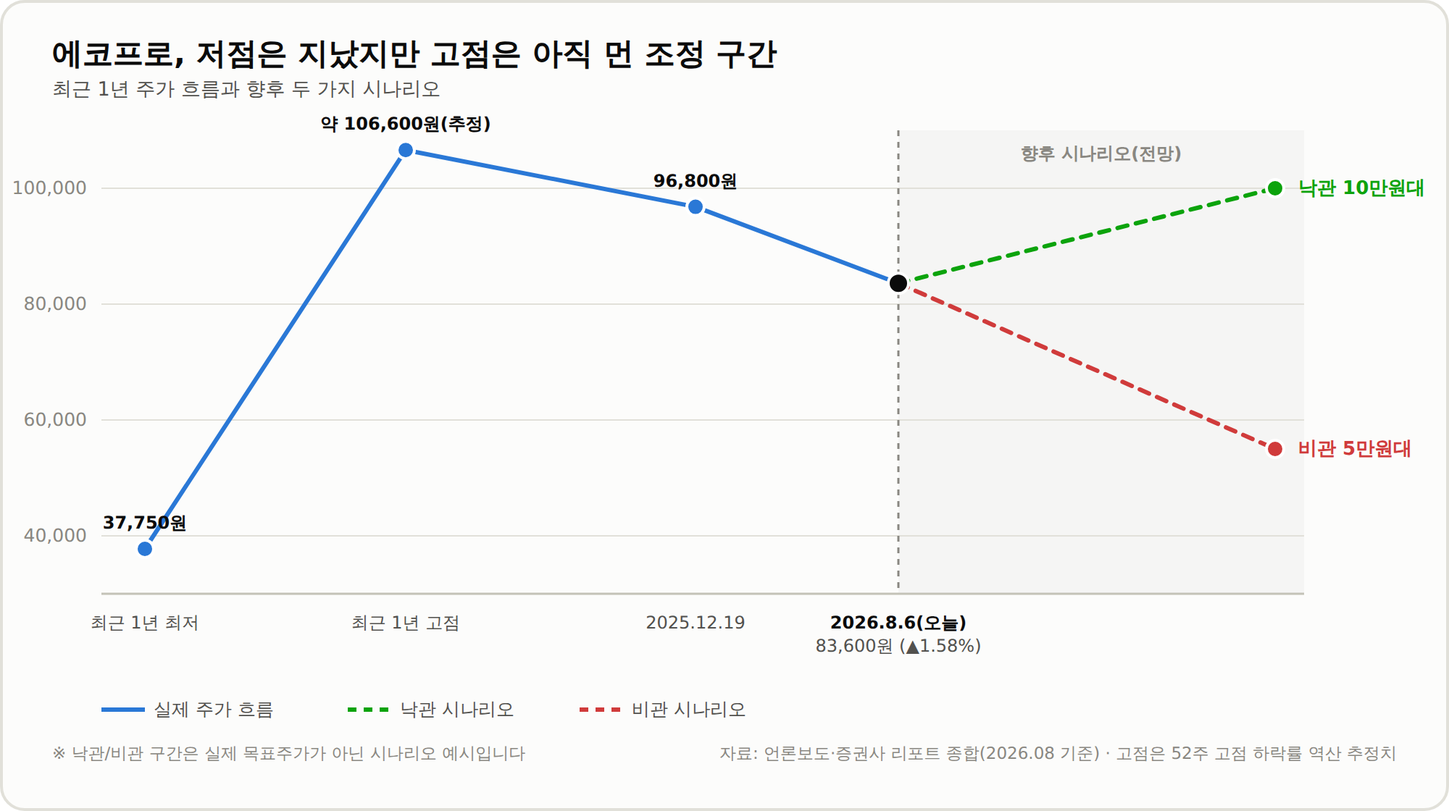
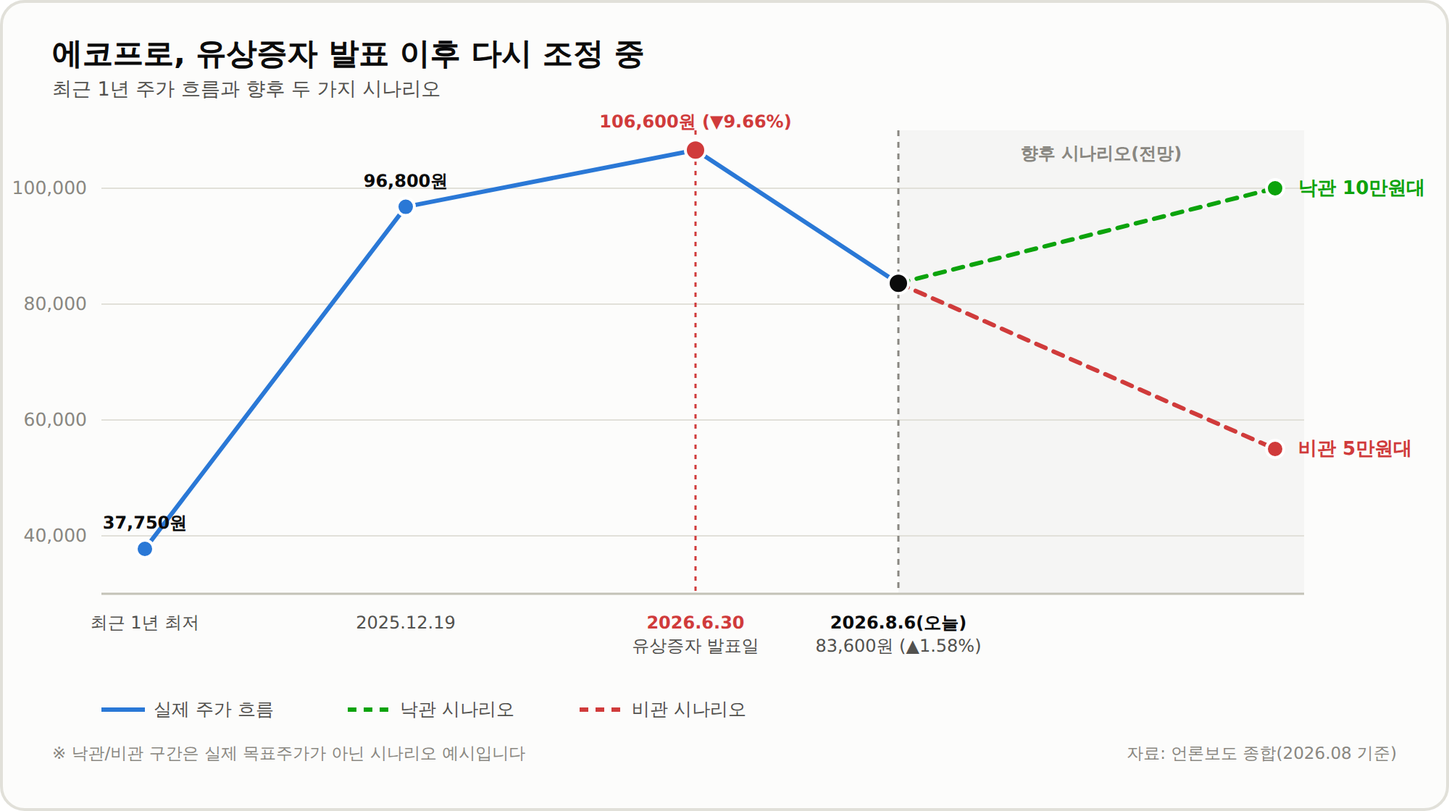
에코프로 글에 유상증자(1.2조원) 이슈 섹션 추가 (#22)
* feat: 에코프로 글에 유상증자 이슈 섹션 추가

- 2026.6.30 에코프로비엠(자회사) 1.2조원 유상증자 결정 내용을
  새 섹션(3번)으로 추가: 발행 규모/가격/일정/자금 사용계획(인니
  BNSI 니켈제련소 지분 확보 등) 표로 정리
- 발표 당일 주가 반응(에코프로 -9.66%, 에코프로비엠 -7.77%) 및
  향후 일정(10/12 발행가 확정, 10/15~21 청약, 11/5 신주 상장) 서술
- 주가 흐름 차트를 실제 사료로 재구성: 기존에 "52주 고점 역산
  추정치"로 표기했던 106,600원 지점이 실제로는 유상증자 발표일
  (2026.6.30) 종가였음을 확인해 정확한 날짜·사유로 라벨 교체,
  차트 타이틀도 "유상증자 발표 이후 다시 조정 중"으로 갱신
- 시나리오/투자포인트/리스크/밸류에이션/결론에 유상증자發 희석
  리스크, 해외 프로젝트 실행 리스크, 원료 경쟁력 강화 포인트 반영
- marked 렌더링 전수 검증(별표 노출/취소선 0건) 및 괄호 짝 검증 통과

Claude-Session: https://claude.ai/code/session_01WzxL9fDSxe2pwdrpmEY5Nh

* feat: 에코프로 유상증자 - 금감원 정정요구 및 지분구조 분석 추가

- 3절 유상증자 이벤트 테이블에 증권신고서 제출(7/14), 금감원 정정요구
  (7/15, 신고서 효력정지), 1차 정정공시(7/24), 정정신고서 효력발생(8/8)
  일정 추가
- "금감원 정정요구, 무슨 일이 있었나" 서브섹션 신설: 정정요구 사유, 절차
  효과(3개월 내 미제출시 철회 간주), 시장의 역설적 반응(+7.64%) 설명
- "유상증자 주체는 왜 지주사가 아니라 자회사인가" 서브섹션 신설: 발행
  주체(에코프로비엠)와 주가 낙폭(-9.66% > -7.77%)의 괴리를 지분구조
  (에코프로의 에코프로비엠 지분 약 41%)로 설명, 주주배정 실권주 공모
  방식에 따른 지주사의 청약 참여 여부 변수 언급
- posts/stock/ecopro-analysis.md와 src/App.tsx post-11 동기화
- marked.parse() 검증 스크립트로 전체 posts/*.md + App.tsx 항목 재검증
  (** 누출, 괄호 불일치 없음 확인)

Claude-Session: https://claude.ai/code/session_01WzxL9fDSxe2pwdrpmEY5Nh

---------

diff --git a/src/App.tsx b/src/App.tsx
@@ -12,16 +12,16 @@ const samplePosts: Post[] = [
     title: '에코프로(086520) 주가 분석 - 2차전지 밸류체인의 심장, 캐즘 터널의 끝은 보이는가',
     category: '주식',
     date: '2026-08-08',
-    tags: ['주식', '에코프로', '086520', '2차전지', '양극재', '리튬', 'ESS', '종목분석', '코스닥'],
+    tags: ['주식', '에코프로', '086520', '2차전지', '양극재', '리튬', 'ESS', '유상증자', '종목분석', '코스닥'],
     naverCategory: '국내주식',
     filePath: 'posts/stock/ecopro-analysis.md',
     content: `# 에코프로(086520) 주가 분석 - 2차전지 밸류체인의 심장, 캐즘 터널의 끝은 보이는가
 
 ![에코프로(086520) 주식분석 커버 이미지 - 현재가 83,600원, 시가총액 11.35조원(코스닥 2위), 2026년 2분기 영업이익 329억원(+102.7%)](/images/ecopro-stock/ecopro-cover.png)
 
-한때 "코스닥 황제주"로 불리며 국내 개인투자자들의 2차전지 열풍을 상징했던 종목, **에코프로**(086520)를 분석해 보려고 합니다. 2023년 화려한 랠리 이후 오랜 조정을 거쳐온 이 종목이 지금은 어떤 국면에 있는지, 2차전지 업종 전반의 흐름과 함께 그룹 밸류체인 구조·최근 실적을 정리해 봤습니다.
+한때 "코스닥 황제주"로 불리며 국내 개인투자자들의 2차전지 열풍을 상징했던 종목, **에코프로**(086520)를 분석해 보려고 합니다. 2023년 화려한 랠리 이후 오랜 조정을 거쳐온 이 종목이 지금은 어떤 국면에 있는지, 2차전지 업종 전반의 흐름과 최근 대규모 유상증자 이슈까지 함께 정리해 봤습니다.
 
-> ⚠ 이 글은 특정 종목의 매수·매도를 권유하는 글이 아니며, 투자 판단과 책임은 투자자 본인에게 있습니다. 수치는 공시 및 언론 보도를 바탕으로 정리했고, 일부 수치(52주 고점 등)는 발표된 등락률을 역산한 추정치입니다. 투자 전 최신 공시자료를 반드시 직접 확인해 주세요.
+> ⚠ 이 글은 특정 종목의 매수·매도를 권유하는 글이 아니며, 투자 판단과 책임은 투자자 본인에게 있습니다. 수치는 공시 및 언론 보도를 바탕으로 정리했습니다. 투자 전 최신 공시자료를 반드시 직접 확인해 주세요.
 
 ---
 
@@ -54,21 +54,64 @@ const samplePosts: Post[] = [
 
 ---
 
-## 3. 주가는 지금 어디에: 저점은 지났지만 고점은 아직 먼 조정 구간
+## 3. 최근 가장 큰 이슈: 1.2조원 유상증자와 인도네시아 니켈 베팅
 
-![에코프로 최근 1년 주가 흐름 차트 - 52주 최저 37,750원에서 반등해 고점을 찍었다가 2025년 12월 96,800원을 거쳐 2026년 8월 6일 83,600원으로 조정 중이며, 향후 낙관(10만원대)과 비관(5만원대) 두 시나리오를 보여줌](/images/ecopro-stock/ecopro-price-trend.png)
+2026년 6월 30일, 자회사 에코프로비엠 이사회가 약 1조 2,000억원 규모의 대형 유상증자를 결정하면서 그룹 전체 주가가 크게 흔들렸습니다.
 
-- **최근 1년 최저**: 37,750원
-- **최근 1년 고점**: 약 106,600원(52주 고점 대비 하락률 -21.53%를 역산한 추정치)
-- **2025년 12월 19일**: 96,800원
-- **2026년 8월 6일(오늘 기준 최신)**: 83,600원, 전일 대비 +1.58%
-- **시가총액**: 약 11.35조원으로 코스닥 시가총액 2위
+| 항목 | 내용 |
+| --- | --- |
+| 유상증자 대상 | 에코프로비엠(자회사, 247540) |
+| 유상증자 규모 | 약 1조 2,000억원 |
+| 발행 주식수 | 보통주 990만 990주 |
+| 예정 발행가 | 12만 1,200원(최종 발행가는 10월 12일 확정 예정) |
+| 방식 | 주주배정 후 실권주 일반공모 |
+| 자금 사용 계획 | 인도네시아 BNSI 니켈제련소 지분 확보 등 9,150억원 + 헝가리 잔여 투자 + 시설자금 1,500억원 + 운영자금 1,350억원 |
+| 청약 일정 | 기존 주주 청약 10월 15~16일, 일반공모 청약 10월 20~21일 |
+| 신주 상장(예정) | 2026년 11월 5일 |
+| 증권신고서 제출 | 2026년 7월 14일 |
+| 금감원 정정요구 | 2026년 7월 15일(신고서 효력 정지) |
+| 1차 정정 공시 | 2026년 7월 24일(발행 규모·주식수 동일 유지) |
+| 정정신고서 효력발생(예정) | 2026년 8월 8일(오늘) |
 
-정리하면, 52주 최저가 대비로는 크게 올라온 상태지만 최근 고점 대비로는 여전히 20% 넘게 조정을 받고 있는 흐름이에요. 참고로 이 종목은 2023년 7월 장중 100만원을 넘어서며 16년 만에 코스닥 "황제주"에 올랐던 이력이 있고, 2024년 4월 1대5 액면분할(주주 접근성 제고 목적)을 거쳤습니다. 지금의 가격대는 그 시절의 열기가 상당 부분 식은 이후, 새로운 바닥을 다지는 국면으로 볼 수 있습니다.
+핵심은 자금의 대부분(9,150억원)이 **인도네시아 술라웨시**에 짓는 BNSI 니켈제련소 지분 확보에 들어간다는 점입니다. 인도네시아 국영 광물기업 PT Vale Indonesia(PTVI) 등과 합작으로 짓는 이 제련소는 연산 9만 톤 규모의 니켈 생산능력(전기차 약 200만 대 분량 공급 가능)을 목표로 하고 있어요. 앞서 소개한 밸류체인의 "원료 확보" 단계를 그룹 차원에서 한 번 더 강화하려는 대형 베팅인 셈입니다.
+
+다만 시장의 반응은 즉각적으로 냉랭했습니다. 발표 당일 모회사인 **에코프로는 -9.66%(106,600원)**, 자회사 **에코프로비엠은 -7.77%**(142,500원)까지 급락했어요. 대규모 신주 발행에 따른 지분 희석 우려가 곧바로 주가에 반영된 모습입니다.
+
+### 금감원 정정요구, 무슨 일이 있었나
+
+7월 14일 에코프로비엠이 증권신고서를 제출했는데, 금융감독원이 바로 다음 날인 7월 15일 정정을 요구하면서 유상증자 절차에 제동이 걸렸습니다. 금감원은 "중요사항의 기재가 불충분하거나 내용이 불분명해 투자자의 합리적인 투자판단을 저해하거나 중대한 오해를 일으킬 수 있다"는 점을 정정요구 사유로 들었어요. 정정요구가 나오면 증권신고서의 효력이 즉시 정지되고, 3개월 안에 정정신고서를 다시 내지 않으면 유상증자 자체가 철회된 것으로 간주됩니다.
+
+흥미로운 건 시장 반응입니다. 통상 유상증자에 대한 규제당국의 제동은 악재로 받아들여지기 쉬운데, 오히려 이 소식에 에코프로비엠 주가는 전 거래일 대비 +7.64%(121,200원)까지 뛰었어요. 무리하게 밀어붙이던 대형 증자에 제동이 걸리면서, 투자 명분과 위험 요인을 다시 한번 꼼꼼히 짚어보는 계기가 될 거라는 기대감이 반영된 것으로 풀이됩니다.
+
+에코프로비엠은 7월 24일 발행 주식수(990만 990주)와 조달금액(1.2조원)은 그대로 유지한 채 1차 정정 공시를 제출했고, 이 정정신고서의 효력발생일이 바로 오늘(8월 8일)입니다. 금감원이 추가로 제동을 걸지 않는다면 유상증자는 원래 일정(10월 청약, 11월 신주 상장)대로 정상 진행될 수 있는 단계에 들어선 셈이에요. 이후로도 주가는 다시 조정을 받으며 오늘(8월 6일) 기준 83,600원까지 밀려 있는 상태입니다.
+
+### 유상증자 주체는 왜 지주사가 아니라 자회사인가
+
+이번 유상증자의 발행 주체는 지주회사인 에코프로가 아니라, 상장 자회사인 에코프로비엠입니다. 그런데 정작 주가는 자회사(-7.77%)보다 지주사(-9.66%)가 더 크게 빠졌어요. 이유는 지분 구조에 있습니다.
+
+에코프로는 에코프로비엠 지분 **약 41**%를 보유한 최대주주예요. 자회사가 신주를 대규모로 발행하면, 새로 발행되는 주식만큼 기존 주주의 지분율이 희석되는데, 이는 곧 최대주주인 지주사가 보유한 자회사 지분의 가치도 함께 희석된다는 뜻입니다. 즉, 유상증자를 실행하는 건 자회사지만, 그 부담은 지주사 주가가 고스란히, 심지어 더 크게 나눠 짊어진 셈이에요.
+
+이번 유상증자는 "주주배정 후 실권주 일반공모" 방식이라, 기존 주주는 지분율만큼 신주를 우선 배정받아 청약할 권리가 있습니다. 에코프로가 10월 청약에서 자기 지분율만큼 실제로 참여하느냐에 따라 앞으로 에코프로비엠에 대한 지분율을 그대로 지킬지, 아니면 더 희석될지가 갈릴 텐데, 아직 이 부분은 확인되지 않은 변수로 남아 있습니다. 밸류에이션 체크에서 짚은 "지주사 디스카운트"가 이번 이슈에서도 고스란히 드러나는 대목입니다.
+
+아직 최종 발행가 확정(10월 12일)과 청약(10월 15~21일), 신주 상장(11월 5일)이 남아 있는 진행 중인 이벤트라, 앞으로 이 일정들이 다가올 때마다 다시 한번 주가 변동성을 키울 수 있는 변수로 남아 있습니다.
 
 ---
 
-## 4. 최근 실적: 배터리는 부진한데 지주사 이익은 늘어난 역설
+## 4. 주가는 지금 어디에: 유상증자 발표 이후 다시 조정 중
+
+![에코프로 최근 1년 주가 흐름 차트 - 52주 최저 37,750원에서 반등해 2025년 12월 96,800원, 2026년 6월 30일 유상증자 발표일 106,600원(▼9.66%)을 거쳐 2026년 8월 6일 83,600원으로 조정 중이며, 향후 낙관(10만원대)과 비관(5만원대) 두 시나리오를 보여줌](/images/ecopro-stock/ecopro-price-trend.png)
+
+- **최근 1년 최저**: 37,750원
+- **2025년 12월 19일**: 96,800원
+- **2026년 6월 30일(유상증자 발표일)**: 106,600원, 전일 대비 -9.66%
+- **2026년 8월 6일(오늘 기준 최신)**: 83,600원, 전일 대비 +1.58%
+- **시가총액**: 약 11.35조원으로 코스닥 시가총액 2위
+
+정리하면, 2025년 말부터 꾸준히 오르던 주가가 6월 30일 대규모 유상증자 발표를 기점으로 한 차례 급락했고, 이후로도 조정이 이어지며 오늘 기준 83,600원까지 밀린 흐름이에요. 52주 최저가 대비로는 여전히 크게 올라온 구간이지만, 유상증자 발표 이전 고점 대비로는 뚜렷한 조정 국면에 들어선 셈입니다. 참고로 이 종목은 2023년 7월 장중 100만원을 넘어서며 16년 만에 코스닥 "황제주"에 올랐던 이력이 있고, 2024년 4월에는 1대5 액면분할(주주 접근성 제고 목적)을 거치기도 했습니다.
+
+---
+
+## 5. 최근 실적: 배터리는 부진한데 지주사 이익은 늘어난 역설
 
 | 구분 | 2026년 2분기 실적 |
 | --- | --- |
@@ -82,35 +125,38 @@ const samplePosts: Post[] = [
 
 ---
 
-## 5. 앞으로의 향방: 두 가지 시나리오
+## 6. 앞으로의 향방: 두 가지 시나리오
 
-### 📈 낙관 시나리오 (ESS·탈중국 수혜 + 하이니켈 재개)
+### 📈 낙관 시나리오 (ESS·탈중국 수혜 + 유상증자 자금 집행 순항)
 - 미국 ESS 시장 확대와 탈중국 공급망 재편 수혜가 본격화되며 비중국산 소재 수요가 국내 업체로 몰리는 흐름
-- 전기차 수요도 2분기 이후 반등 조짐을 보이며 하이니켈 양극재 수요가 다시 살아나는 흐름
+- 전기차 수요도 반등 조짐을 보이며 하이니켈 양극재 수요가 다시 살아나는 흐름
+- 10월 유상증자 청약이 흥행하고 인니 BNSI 니켈제련소 투자가 계획대로 진행되며 "장기 원료 경쟁력 확보"라는 스토리가 재평가받는 흐름
 - 증권가에서는 에코프로비엠 목표주가를 24.6만원에서 28만원으로 상향(NH투자증권)하는 등 "최악의 구간은 지났다"는 평가가 늘어나는 중
-- Non-EV·반도체 소재 등 다각화 매출이 계속 이익을 방어하며 지주사 이익 체력이 유지되는 흐름
-- 관전 포인트: 3분기 이후 전기차 배터리 판매 물량의 실질적인 반등 여부, LFP 샘플 공급이 실제 수주로 이어지는지
+- 관전 포인트: 10월 12일 최종 발행가 확정 수준, 청약 흥행 여부, LFP 샘플 공급의 실제 수주 전환 여부
 
-### 📉 비관 시나리오 (캐즘 재심화 + LFP 전환 지연)
+### 📉 비관 시나리오 (캐즘 재심화 + 유상증자 후유증)
 - 전기차 수요 반등이 일시적 반등에 그치고 캐즘(수요 둔화)이 다시 깊어지는 흐름
+- 유상증자에 따른 지분 희석 우려가 청약 시점까지 계속 주가에 부담으로 작용
 - 이미 출하량 기준 시장의 72%를 차지한 중국 LFP 업체들에 밀려, 국내 업체들의 LFP 전환이 계속 늦어지는 흐름
-- 리튬 등 원자재 가격이 재차 하락하며 그룹 전반의 이익 방어력이 약해짐
+- 인니 니켈제련소 등 대형 해외 프로젝트 실행이 지연되며 조달한 자금의 효율성에 의문이 제기되는 흐름
 - 이 경우 주가는 다시 52주 최저가 부근인 5만원대까지 되밀릴 가능성
 
-두 시나리오 모두 결국 핵심은 "2차전지 수요 회복이 진짜냐, 그리고 그 회복의 열매를 국내 업체가 가져갈 수 있느냐"입니다. 에코프로 그룹의 밸류체인 자체는 견고하지만, 그 밸류체인이 만들어내는 이익의 크기는 결국 전방 산업(전기차·ESS)의 회복 속도와 LFP 대응 속도에 함께 달려 있다는 점을 봐야 합니다.
+두 시나리오 모두 결국 핵심은 "2차전지 수요 회복이 진짜냐, 그리고 대규모로 조달한 자금이 실제 경쟁력으로 이어지느냐"입니다. 에코프로 그룹의 밸류체인 자체는 견고하지만, 그 밸류체인을 더 키우기 위해 짊어진 유상증자 부담을 시장이 어떻게 소화하느냐가 단기적으로는 더 중요한 변수로 보입니다.
 
 ---
 
-## 6. 투자 포인트 (강점)
+## 7. 투자 포인트 (강점)
 
 - **수직계열화된 밸류체인**: 원료(니켈·리튬)부터 전구체·양극재·재활용까지 그룹 내에서 순환하는 구조로 원가 경쟁력과 공급망 안정성을 함께 확보
+- **원료 경쟁력 강화 투자**: 인니 BNSI 니켈제련소(연산 9만 톤 규모) 지분 확보를 위해 대규모 자금을 투입하며 밸류체인의 최상단인 원료 자급률을 높이려는 시도
 - **사업 다각화에 따른 이익 방어력**: 이번 분기 실적으로 배터리 부진을 리튬·환경 사업이 방어한다는 점이 실제로 증명됨
 - **차세대 포트폴리오 대응**: 하이니켈 중심에서 LFP·전고체까지 투트랙으로 개발 중이라 ESS·신규 모빌리티向 수요 확대에도 대응할 여지가 있음
 - **개선되는 증권가 시각**: 자회사 에코프로비엠에 대한 목표주가 상향 리포트가 늘어나는 등 업황 반등 기대감이 조금씩 반영되는 중
-- **Non-EV·반도체 소재 다변화**: 전동공구, ESS, 반도체 소재 등으로 매출처를 넓히며 전기차 의존도를 낮추는 중
 
-## 7. 리스크 요인
+## 8. 리스크 요인
 
+- **유상증자發 희석 리스크**: 990만 990주 규모의 대형 신주 발행으로 기존 주주의 지분율과 주당가치가 희석되며, 발표 당일 주가 급락에서 보듯 투자심리에도 단기 부담
+- **해외 대형 프로젝트 실행 리스크**: 인니 니켈제련소 등 대규모 해외 투자가 계획대로 진행되지 않을 경우, 조달한 자금의 효율성이 떨어질 수 있음
 - **전기차 캐즘 지속 가능성**: 지난 1~2년간 주가 부진의 핵심 원인이었던 수요 둔화가 완전히 해소됐다고 보기는 아직 이름
 - **LFP 전환 속도 리스크**: 글로벌 양극재 시장이 이미 LFP 중심(출하량 72%)으로 재편된 가운데, 하이니켈에 강점을 가진 국내 업체들의 LFP 대응이 늦어질 경우 경쟁력이 약해질 수 있음
 - **중국 업체의 저가 공세**: LFP 등 저가 배터리 소재 시장에서 중국 업체들의 점유율 확대 압박
@@ -120,25 +166,26 @@ const samplePosts: Post[] = [
 
 ---
 
-## 8. 밸류에이션 체크
+## 9. 밸류에이션 체크
 
 - 에코프로(지주회사)는 자회사인 에코프로비엠 대비 증권사 커버리지가 적은 편이라, 목표주가 컨센서스의 신뢰도 자체가 낮은 편입니다. 특정 목표주가 하나만 보고 판단하기보다는, 자회사들의 실적과 업황 리포트를 함께 참고하는 편이 안전합니다.
 - 자회사 에코프로비엠에 대해서는 22만원(Trading Buy, IBK투자증권)부터 28만원(매수, NH투자증권)까지 목표주가가 제시되고 있어, 업황에 대한 시선 자체는 조금씩 개선되는 분위기입니다.
 - 다만 지주사 주가는 자회사 지분가치뿐 아니라 지주사 자체의 사업(환경·소재 등)과 지배구조 이슈까지 함께 반영되므로, 자회사 목표주가를 그대로 지주사에 적용하기는 어렵다는 점을 감안해야 합니다.
+- 유상증자 최종 발행가(10월 12일 확정 예정)는 그 시점의 시장가를 기준으로 다시 산정되므로, 예정 발행가(12만 1,200원)와는 차이가 날 수 있다는 점도 참고하시길 바랍니다.
 
 ---
 
-## 9. 결론 및 투자자 시사점
+## 10. 결론 및 투자자 시사점
 
 에코프로는 "니켈·리튬 원료부터 재활용까지" 이어지는 보기 드문 수직계열화 구조를 가진 회사입니다. 2023년의 화려한 랠리와 그 이후의 긴 조정을 모두 겪으며, 지금은 배터리 한 사업만이 아니라 리튬·환경·반도체 소재까지 다각화된 이익 구조로 조금씩 체질을 바꾸고 있는 모습이 눈에 띕니다. 이번 2분기 실적에서 배터리 부진을 다른 사업부가 방어했다는 점이 그 증거입니다.
 
-여기에 2차전지 업종 전체로 보면, 회복의 축이 전기차에서 ESS로 옮겨가고 있고 미국·유럽의 탈중국 공급망 재편이 국내 업체들에게 기회로 작용할 수 있다는 점도 함께 봐야 할 변수입니다. 다만 이미 시장의 대세가 된 LFP로의 전환 속도, 그리고 여전히 불확실한 전기차 수요 회복 속도라는 두 축이 앞으로의 방향을 가를 것으로 보입니다.
+여기에 2차전지 업종 전체로 보면, 회복의 축이 전기차에서 ESS로 옮겨가고 있고 미국·유럽의 탈중국 공급망 재편이 국내 업체들에게 기회로 작용할 수 있다는 점도 함께 봐야 할 변수입니다. 다만 지금 당장은 6월 30일 발표된 1조 2,000억원 규모 유상증자의 후유증이 주가를 짓누르고 있고, 10월 최종 발행가 확정과 청약이라는 굵직한 이벤트가 아직 남아 있다는 점이 가장 큰 단기 변수입니다.
 
-결국 주가의 방향을 결정할 핵심 변수는 ①전기차·ESS 수요 회복의 실질적인 속도, ②LFP·전고체 등 차세대 소재 전환 대응력, ③중국 업체와의 가격 경쟁, ④리튬 등 원자재 가격 흐름이라는 네 가지로 요약됩니다. 다음 분기 실적에서 Non-EV·ESS向 물량 확대가 이어지는지, 그리고 LFP 샘플 공급이 실제 수주로 이어지는지를 함께 확인하시는 것을 추천드립니다.
+결국 주가의 방향을 결정할 핵심 변수는 ①유상증자 청약 흥행 및 자금 집행 순항 여부, ②전기차·ESS 수요 회복의 실질적인 속도, ③LFP·전고체 등 차세대 소재 전환 대응력, ④인니 니켈제련소 등 해외 대형 프로젝트의 실행 속도라는 네 가지로 요약됩니다. 10월 12일 최종 발행가 확정, 10월 15~21일 청약 결과를 함께 확인하시는 것을 추천드립니다.
 
 투자는 언제나 최신 공시자료와 분기 실적, 그리고 그날그날의 업황 뉴스를 직접 확인하신 후 신중하게 결정하시길 바랍니다. 📊
 
-#에코프로 #086520 #2차전지 #양극재 #리튬 #ESS #종목분석 #코스닥 #주식공부`
+#에코프로 #086520 #2차전지 #양극재 #리튬 #ESS #유상증자 #종목분석 #코스닥 #주식공부`
   },
   {
     id: 'post-10',

diff --git a/posts/stock/ecopro-analysis.md b/posts/stock/ecopro-analysis.md
@@ -2,7 +2,7 @@
 title: "에코프로(086520) 주가 분석 - 2차전지 밸류체인의 심장, 캐즘 터널의 끝은 보이는가"
 category: "주식"
 date: "2026-08-08"
-tags: ["주식", "에코프로", "086520", "2차전지", "양극재", "리튬", "ESS", "종목분석", "코스닥"]
+tags: ["주식", "에코프로", "086520", "2차전지", "양극재", "리튬", "ESS", "유상증자", "종목분석", "코스닥"]
 naverCategory: "국내주식"
 ---
 
@@ -10,9 +10,9 @@ naverCategory: "국내주식"
 
 ![에코프로(086520) 주식분석 커버 이미지 - 현재가 83,600원, 시가총액 11.35조원(코스닥 2위), 2026년 2분기 영업이익 329억원(+102.7%)](/images/ecopro-stock/ecopro-cover.png)
 
-한때 "코스닥 황제주"로 불리며 국내 개인투자자들의 2차전지 열풍을 상징했던 종목, **에코프로**(086520)를 분석해 보려고 합니다. 2023년 화려한 랠리 이후 오랜 조정을 거쳐온 이 종목이 지금은 어떤 국면에 있는지, 2차전지 업종 전반의 흐름과 함께 그룹 밸류체인 구조·최근 실적을 정리해 봤습니다.
+한때 "코스닥 황제주"로 불리며 국내 개인투자자들의 2차전지 열풍을 상징했던 종목, **에코프로**(086520)를 분석해 보려고 합니다. 2023년 화려한 랠리 이후 오랜 조정을 거쳐온 이 종목이 지금은 어떤 국면에 있는지, 2차전지 업종 전반의 흐름과 최근 대규모 유상증자 이슈까지 함께 정리해 봤습니다.
 
-> ⚠ 이 글은 특정 종목의 매수·매도를 권유하는 글이 아니며, 투자 판단과 책임은 투자자 본인에게 있습니다. 수치는 공시 및 언론 보도를 바탕으로 정리했고, 일부 수치(52주 고점 등)는 발표된 등락률을 역산한 추정치입니다. 투자 전 최신 공시자료를 반드시 직접 확인해 주세요.
+> ⚠ 이 글은 특정 종목의 매수·매도를 권유하는 글이 아니며, 투자 판단과 책임은 투자자 본인에게 있습니다. 수치는 공시 및 언론 보도를 바탕으로 정리했습니다. 투자 전 최신 공시자료를 반드시 직접 확인해 주세요.
 
 ---
 
@@ -45,21 +45,64 @@ naverCategory: "국내주식"
 
 ---
 
-## 3. 주가는 지금 어디에: 저점은 지났지만 고점은 아직 먼 조정 구간
+## 3. 최근 가장 큰 이슈: 1.2조원 유상증자와 인도네시아 니켈 베팅
 
-![에코프로 최근 1년 주가 흐름 차트 - 52주 최저 37,750원에서 반등해 고점을 찍었다가 2025년 12월 96,800원을 거쳐 2026년 8월 6일 83,600원으로 조정 중이며, 향후 낙관(10만원대)과 비관(5만원대) 두 시나리오를 보여줌](/images/ecopro-stock/ecopro-price-trend.png)
+2026년 6월 30일, 자회사 에코프로비엠 이사회가 약 1조 2,000억원 규모의 대형 유상증자를 결정하면서 그룹 전체 주가가 크게 흔들렸습니다.
 
-- **최근 1년 최저**: 37,750원
-- **최근 1년 고점**: 약 106,600원(52주 고점 대비 하락률 -21.53%를 역산한 추정치)
-- **2025년 12월 19일**: 96,800원
-- **2026년 8월 6일(오늘 기준 최신)**: 83,600원, 전일 대비 +1.58%
-- **시가총액**: 약 11.35조원으로 코스닥 시가총액 2위
+| 항목 | 내용 |
+| --- | --- |
+| 유상증자 대상 | 에코프로비엠(자회사, 247540) |
+| 유상증자 규모 | 약 1조 2,000억원 |
+| 발행 주식수 | 보통주 990만 990주 |
+| 예정 발행가 | 12만 1,200원(최종 발행가는 10월 12일 확정 예정) |
+| 방식 | 주주배정 후 실권주 일반공모 |
+| 자금 사용 계획 | 인도네시아 BNSI 니켈제련소 지분 확보 등 9,150억원 + 헝가리 잔여 투자 + 시설자금 1,500억원 + 운영자금 1,350억원 |
+| 청약 일정 | 기존 주주 청약 10월 15~16일, 일반공모 청약 10월 20~21일 |
+| 신주 상장(예정) | 2026년 11월 5일 |
+| 증권신고서 제출 | 2026년 7월 14일 |
+| 금감원 정정요구 | 2026년 7월 15일(신고서 효력 정지) |
+| 1차 정정 공시 | 2026년 7월 24일(발행 규모·주식수 동일 유지) |
+| 정정신고서 효력발생(예정) | 2026년 8월 8일(오늘) |
 
-정리하면, 52주 최저가 대비로는 크게 올라온 상태지만 최근 고점 대비로는 여전히 20% 넘게 조정을 받고 있는 흐름이에요. 참고로 이 종목은 2023년 7월 장중 100만원을 넘어서며 16년 만에 코스닥 "황제주"에 올랐던 이력이 있고, 2024년 4월 1대5 액면분할(주주 접근성 제고 목적)을 거쳤습니다. 지금의 가격대는 그 시절의 열기가 상당 부분 식은 이후, 새로운 바닥을 다지는 국면으로 볼 수 있습니다.
+핵심은 자금의 대부분(9,150억원)이 **인도네시아 술라웨시**에 짓는 BNSI 니켈제련소 지분 확보에 들어간다는 점입니다. 인도네시아 국영 광물기업 PT Vale Indonesia(PTVI) 등과 합작으로 짓는 이 제련소는 연산 9만 톤 규모의 니켈 생산능력(전기차 약 200만 대 분량 공급 가능)을 목표로 하고 있어요. 앞서 소개한 밸류체인의 "원료 확보" 단계를 그룹 차원에서 한 번 더 강화하려는 대형 베팅인 셈입니다.
+
+다만 시장의 반응은 즉각적으로 냉랭했습니다. 발표 당일 모회사인 **에코프로는 -9.66%(106,600원)**, 자회사 **에코프로비엠은 -7.77%**(142,500원)까지 급락했어요. 대규모 신주 발행에 따른 지분 희석 우려가 곧바로 주가에 반영된 모습입니다.
+
+### 금감원 정정요구, 무슨 일이 있었나
+
+7월 14일 에코프로비엠이 증권신고서를 제출했는데, 금융감독원이 바로 다음 날인 7월 15일 정정을 요구하면서 유상증자 절차에 제동이 걸렸습니다. 금감원은 "중요사항의 기재가 불충분하거나 내용이 불분명해 투자자의 합리적인 투자판단을 저해하거나 중대한 오해를 일으킬 수 있다"는 점을 정정요구 사유로 들었어요. 정정요구가 나오면 증권신고서의 효력이 즉시 정지되고, 3개월 안에 정정신고서를 다시 내지 않으면 유상증자 자체가 철회된 것으로 간주됩니다.
+
+흥미로운 건 시장 반응입니다. 통상 유상증자에 대한 규제당국의 제동은 악재로 받아들여지기 쉬운데, 오히려 이 소식에 에코프로비엠 주가는 전 거래일 대비 +7.64%(121,200원)까지 뛰었어요. 무리하게 밀어붙이던 대형 증자에 제동이 걸리면서, 투자 명분과 위험 요인을 다시 한번 꼼꼼히 짚어보는 계기가 될 거라는 기대감이 반영된 것으로 풀이됩니다.
+
+에코프로비엠은 7월 24일 발행 주식수(990만 990주)와 조달금액(1.2조원)은 그대로 유지한 채 1차 정정 공시를 제출했고, 이 정정신고서의 효력발생일이 바로 오늘(8월 8일)입니다. 금감원이 추가로 제동을 걸지 않는다면 유상증자는 원래 일정(10월 청약, 11월 신주 상장)대로 정상 진행될 수 있는 단계에 들어선 셈이에요. 이후로도 주가는 다시 조정을 받으며 오늘(8월 6일) 기준 83,600원까지 밀려 있는 상태입니다.
+
+### 유상증자 주체는 왜 지주사가 아니라 자회사인가
+
+이번 유상증자의 발행 주체는 지주회사인 에코프로가 아니라, 상장 자회사인 에코프로비엠입니다. 그런데 정작 주가는 자회사(-7.77%)보다 지주사(-9.66%)가 더 크게 빠졌어요. 이유는 지분 구조에 있습니다.
+
+에코프로는 에코프로비엠 지분 **약 41**%를 보유한 최대주주예요. 자회사가 신주를 대규모로 발행하면, 새로 발행되는 주식만큼 기존 주주의 지분율이 희석되는데, 이는 곧 최대주주인 지주사가 보유한 자회사 지분의 가치도 함께 희석된다는 뜻입니다. 즉, 유상증자를 실행하는 건 자회사지만, 그 부담은 지주사 주가가 고스란히, 심지어 더 크게 나눠 짊어진 셈이에요.
+
+이번 유상증자는 "주주배정 후 실권주 일반공모" 방식이라, 기존 주주는 지분율만큼 신주를 우선 배정받아 청약할 권리가 있습니다. 에코프로가 10월 청약에서 자기 지분율만큼 실제로 참여하느냐에 따라 앞으로 에코프로비엠에 대한 지분율을 그대로 지킬지, 아니면 더 희석될지가 갈릴 텐데, 아직 이 부분은 확인되지 않은 변수로 남아 있습니다. 밸류에이션 체크에서 짚은 "지주사 디스카운트"가 이번 이슈에서도 고스란히 드러나는 대목입니다.
+
+아직 최종 발행가 확정(10월 12일)과 청약(10월 15~21일), 신주 상장(11월 5일)이 남아 있는 진행 중인 이벤트라, 앞으로 이 일정들이 다가올 때마다 다시 한번 주가 변동성을 키울 수 있는 변수로 남아 있습니다.
 
 ---
 
-## 4. 최근 실적: 배터리는 부진한데 지주사 이익은 늘어난 역설
+## 4. 주가는 지금 어디에: 유상증자 발표 이후 다시 조정 중
+
+![에코프로 최근 1년 주가 흐름 차트 - 52주 최저 37,750원에서 반등해 2025년 12월 96,800원, 2026년 6월 30일 유상증자 발표일 106,600원(▼9.66%)을 거쳐 2026년 8월 6일 83,600원으로 조정 중이며, 향후 낙관(10만원대)과 비관(5만원대) 두 시나리오를 보여줌](/images/ecopro-stock/ecopro-price-trend.png)
+
+- **최근 1년 최저**: 37,750원
+- **2025년 12월 19일**: 96,800원
+- **2026년 6월 30일(유상증자 발표일)**: 106,600원, 전일 대비 -9.66%
+- **2026년 8월 6일(오늘 기준 최신)**: 83,600원, 전일 대비 +1.58%
+- **시가총액**: 약 11.35조원으로 코스닥 시가총액 2위
+
+정리하면, 2025년 말부터 꾸준히 오르던 주가가 6월 30일 대규모 유상증자 발표를 기점으로 한 차례 급락했고, 이후로도 조정이 이어지며 오늘 기준 83,600원까지 밀린 흐름이에요. 52주 최저가 대비로는 여전히 크게 올라온 구간이지만, 유상증자 발표 이전 고점 대비로는 뚜렷한 조정 국면에 들어선 셈입니다. 참고로 이 종목은 2023년 7월 장중 100만원을 넘어서며 16년 만에 코스닥 "황제주"에 올랐던 이력이 있고, 2024년 4월에는 1대5 액면분할(주주 접근성 제고 목적)을 거치기도 했습니다.
+
+---
+
+## 5. 최근 실적: 배터리는 부진한데 지주사 이익은 늘어난 역설
 
 | 구분 | 2026년 2분기 실적 |
 | --- | --- |
@@ -73,35 +116,38 @@ naverCategory: "국내주식"
 
 ---
 
-## 5. 앞으로의 향방: 두 가지 시나리오
+## 6. 앞으로의 향방: 두 가지 시나리오
 
-### 📈 낙관 시나리오 (ESS·탈중국 수혜 + 하이니켈 재개)
+### 📈 낙관 시나리오 (ESS·탈중국 수혜 + 유상증자 자금 집행 순항)
 - 미국 ESS 시장 확대와 탈중국 공급망 재편 수혜가 본격화되며 비중국산 소재 수요가 국내 업체로 몰리는 흐름
-- 전기차 수요도 2분기 이후 반등 조짐을 보이며 하이니켈 양극재 수요가 다시 살아나는 흐름
+- 전기차 수요도 반등 조짐을 보이며 하이니켈 양극재 수요가 다시 살아나는 흐름
+- 10월 유상증자 청약이 흥행하고 인니 BNSI 니켈제련소 투자가 계획대로 진행되며 "장기 원료 경쟁력 확보"라는 스토리가 재평가받는 흐름
 - 증권가에서는 에코프로비엠 목표주가를 24.6만원에서 28만원으로 상향(NH투자증권)하는 등 "최악의 구간은 지났다"는 평가가 늘어나는 중
-- Non-EV·반도체 소재 등 다각화 매출이 계속 이익을 방어하며 지주사 이익 체력이 유지되는 흐름
-- 관전 포인트: 3분기 이후 전기차 배터리 판매 물량의 실질적인 반등 여부, LFP 샘플 공급이 실제 수주로 이어지는지
+- 관전 포인트: 10월 12일 최종 발행가 확정 수준, 청약 흥행 여부, LFP 샘플 공급의 실제 수주 전환 여부
 
-### 📉 비관 시나리오 (캐즘 재심화 + LFP 전환 지연)
+### 📉 비관 시나리오 (캐즘 재심화 + 유상증자 후유증)
 - 전기차 수요 반등이 일시적 반등에 그치고 캐즘(수요 둔화)이 다시 깊어지는 흐름
+- 유상증자에 따른 지분 희석 우려가 청약 시점까지 계속 주가에 부담으로 작용
 - 이미 출하량 기준 시장의 72%를 차지한 중국 LFP 업체들에 밀려, 국내 업체들의 LFP 전환이 계속 늦어지는 흐름
-- 리튬 등 원자재 가격이 재차 하락하며 그룹 전반의 이익 방어력이 약해짐
+- 인니 니켈제련소 등 대형 해외 프로젝트 실행이 지연되며 조달한 자금의 효율성에 의문이 제기되는 흐름
 - 이 경우 주가는 다시 52주 최저가 부근인 5만원대까지 되밀릴 가능성
 
-두 시나리오 모두 결국 핵심은 "2차전지 수요 회복이 진짜냐, 그리고 그 회복의 열매를 국내 업체가 가져갈 수 있느냐"입니다. 에코프로 그룹의 밸류체인 자체는 견고하지만, 그 밸류체인이 만들어내는 이익의 크기는 결국 전방 산업(전기차·ESS)의 회복 속도와 LFP 대응 속도에 함께 달려 있다는 점을 봐야 합니다.
+두 시나리오 모두 결국 핵심은 "2차전지 수요 회복이 진짜냐, 그리고 대규모로 조달한 자금이 실제 경쟁력으로 이어지느냐"입니다. 에코프로 그룹의 밸류체인 자체는 견고하지만, 그 밸류체인을 더 키우기 위해 짊어진 유상증자 부담을 시장이 어떻게 소화하느냐가 단기적으로는 더 중요한 변수로 보입니다.
 
 ---
 
-## 6. 투자 포인트 (강점)
+## 7. 투자 포인트 (강점)
 
 - **수직계열화된 밸류체인**: 원료(니켈·리튬)부터 전구체·양극재·재활용까지 그룹 내에서 순환하는 구조로 원가 경쟁력과 공급망 안정성을 함께 확보
+- **원료 경쟁력 강화 투자**: 인니 BNSI 니켈제련소(연산 9만 톤 규모) 지분 확보를 위해 대규모 자금을 투입하며 밸류체인의 최상단인 원료 자급률을 높이려는 시도
 - **사업 다각화에 따른 이익 방어력**: 이번 분기 실적으로 배터리 부진을 리튬·환경 사업이 방어한다는 점이 실제로 증명됨
 - **차세대 포트폴리오 대응**: 하이니켈 중심에서 LFP·전고체까지 투트랙으로 개발 중이라 ESS·신규 모빌리티向 수요 확대에도 대응할 여지가 있음
 - **개선되는 증권가 시각**: 자회사 에코프로비엠에 대한 목표주가 상향 리포트가 늘어나는 등 업황 반등 기대감이 조금씩 반영되는 중
-- **Non-EV·반도체 소재 다변화**: 전동공구, ESS, 반도체 소재 등으로 매출처를 넓히며 전기차 의존도를 낮추는 중
 
-## 7. 리스크 요인
+## 8. 리스크 요인
 
+- **유상증자發 희석 리스크**: 990만 990주 규모의 대형 신주 발행으로 기존 주주의 지분율과 주당가치가 희석되며, 발표 당일 주가 급락에서 보듯 투자심리에도 단기 부담
+- **해외 대형 프로젝트 실행 리스크**: 인니 니켈제련소 등 대규모 해외 투자가 계획대로 진행되지 않을 경우, 조달한 자금의 효율성이 떨어질 수 있음
 - **전기차 캐즘 지속 가능성**: 지난 1~2년간 주가 부진의 핵심 원인이었던 수요 둔화가 완전히 해소됐다고 보기는 아직 이름
 - **LFP 전환 속도 리스크**: 글로벌 양극재 시장이 이미 LFP 중심(출하량 72%)으로 재편된 가운데, 하이니켈에 강점을 가진 국내 업체들의 LFP 대응이 늦어질 경우 경쟁력이 약해질 수 있음
 - **중국 업체의 저가 공세**: LFP 등 저가 배터리 소재 시장에서 중국 업체들의 점유율 확대 압박
@@ -111,22 +157,23 @@ naverCategory: "국내주식"
 
 ---
 
-## 8. 밸류에이션 체크
+## 9. 밸류에이션 체크
 
 - 에코프로(지주회사)는 자회사인 에코프로비엠 대비 증권사 커버리지가 적은 편이라, 목표주가 컨센서스의 신뢰도 자체가 낮은 편입니다. 특정 목표주가 하나만 보고 판단하기보다는, 자회사들의 실적과 업황 리포트를 함께 참고하는 편이 안전합니다.
 - 자회사 에코프로비엠에 대해서는 22만원(Trading Buy, IBK투자증권)부터 28만원(매수, NH투자증권)까지 목표주가가 제시되고 있어, 업황에 대한 시선 자체는 조금씩 개선되는 분위기입니다.
 - 다만 지주사 주가는 자회사 지분가치뿐 아니라 지주사 자체의 사업(환경·소재 등)과 지배구조 이슈까지 함께 반영되므로, 자회사 목표주가를 그대로 지주사에 적용하기는 어렵다는 점을 감안해야 합니다.
+- 유상증자 최종 발행가(10월 12일 확정 예정)는 그 시점의 시장가를 기준으로 다시 산정되므로, 예정 발행가(12만 1,200원)와는 차이가 날 수 있다는 점도 참고하시길 바랍니다.
 
 ---
 
-## 9. 결론 및 투자자 시사점
+## 10. 결론 및 투자자 시사점
 
 에코프로는 "니켈·리튬 원료부터 재활용까지" 이어지는 보기 드문 수직계열화 구조를 가진 회사입니다. 2023년의 화려한 랠리와 그 이후의 긴 조정을 모두 겪으며, 지금은 배터리 한 사업만이 아니라 리튬·환경·반도체 소재까지 다각화된 이익 구조로 조금씩 체질을 바꾸고 있는 모습이 눈에 띕니다. 이번 2분기 실적에서 배터리 부진을 다른 사업부가 방어했다는 점이 그 증거입니다.
 
-여기에 2차전지 업종 전체로 보면, 회복의 축이 전기차에서 ESS로 옮겨가고 있고 미국·유럽의 탈중국 공급망 재편이 국내 업체들에게 기회로 작용할 수 있다는 점도 함께 봐야 할 변수입니다. 다만 이미 시장의 대세가 된 LFP로의 전환 속도, 그리고 여전히 불확실한 전기차 수요 회복 속도라는 두 축이 앞으로의 방향을 가를 것으로 보입니다.
+여기에 2차전지 업종 전체로 보면, 회복의 축이 전기차에서 ESS로 옮겨가고 있고 미국·유럽의 탈중국 공급망 재편이 국내 업체들에게 기회로 작용할 수 있다는 점도 함께 봐야 할 변수입니다. 다만 지금 당장은 6월 30일 발표된 1조 2,000억원 규모 유상증자의 후유증이 주가를 짓누르고 있고, 10월 최종 발행가 확정과 청약이라는 굵직한 이벤트가 아직 남아 있다는 점이 가장 큰 단기 변수입니다.
 
-결국 주가의 방향을 결정할 핵심 변수는 ①전기차·ESS 수요 회복의 실질적인 속도, ②LFP·전고체 등 차세대 소재 전환 대응력, ③중국 업체와의 가격 경쟁, ④리튬 등 원자재 가격 흐름이라는 네 가지로 요약됩니다. 다음 분기 실적에서 Non-EV·ESS向 물량 확대가 이어지는지, 그리고 LFP 샘플 공급이 실제 수주로 이어지는지를 함께 확인하시는 것을 추천드립니다.
+결국 주가의 방향을 결정할 핵심 변수는 ①유상증자 청약 흥행 및 자금 집행 순항 여부, ②전기차·ESS 수요 회복의 실질적인 속도, ③LFP·전고체 등 차세대 소재 전환 대응력, ④인니 니켈제련소 등 해외 대형 프로젝트의 실행 속도라는 네 가지로 요약됩니다. 10월 12일 최종 발행가 확정, 10월 15~21일 청약 결과를 함께 확인하시는 것을 추천드립니다.
 
 투자는 언제나 최신 공시자료와 분기 실적, 그리고 그날그날의 업황 뉴스를 직접 확인하신 후 신중하게 결정하시길 바랍니다. 📊
 
-#에코프로 #086520 #2차전지 #양극재 #리튬 #ESS #종목분석 #코스닥 #주식공부
+#에코프로 #086520 #2차전지 #양극재 #리튬 #ESS #유상증자 #종목분석 #코스닥 #주식공부
